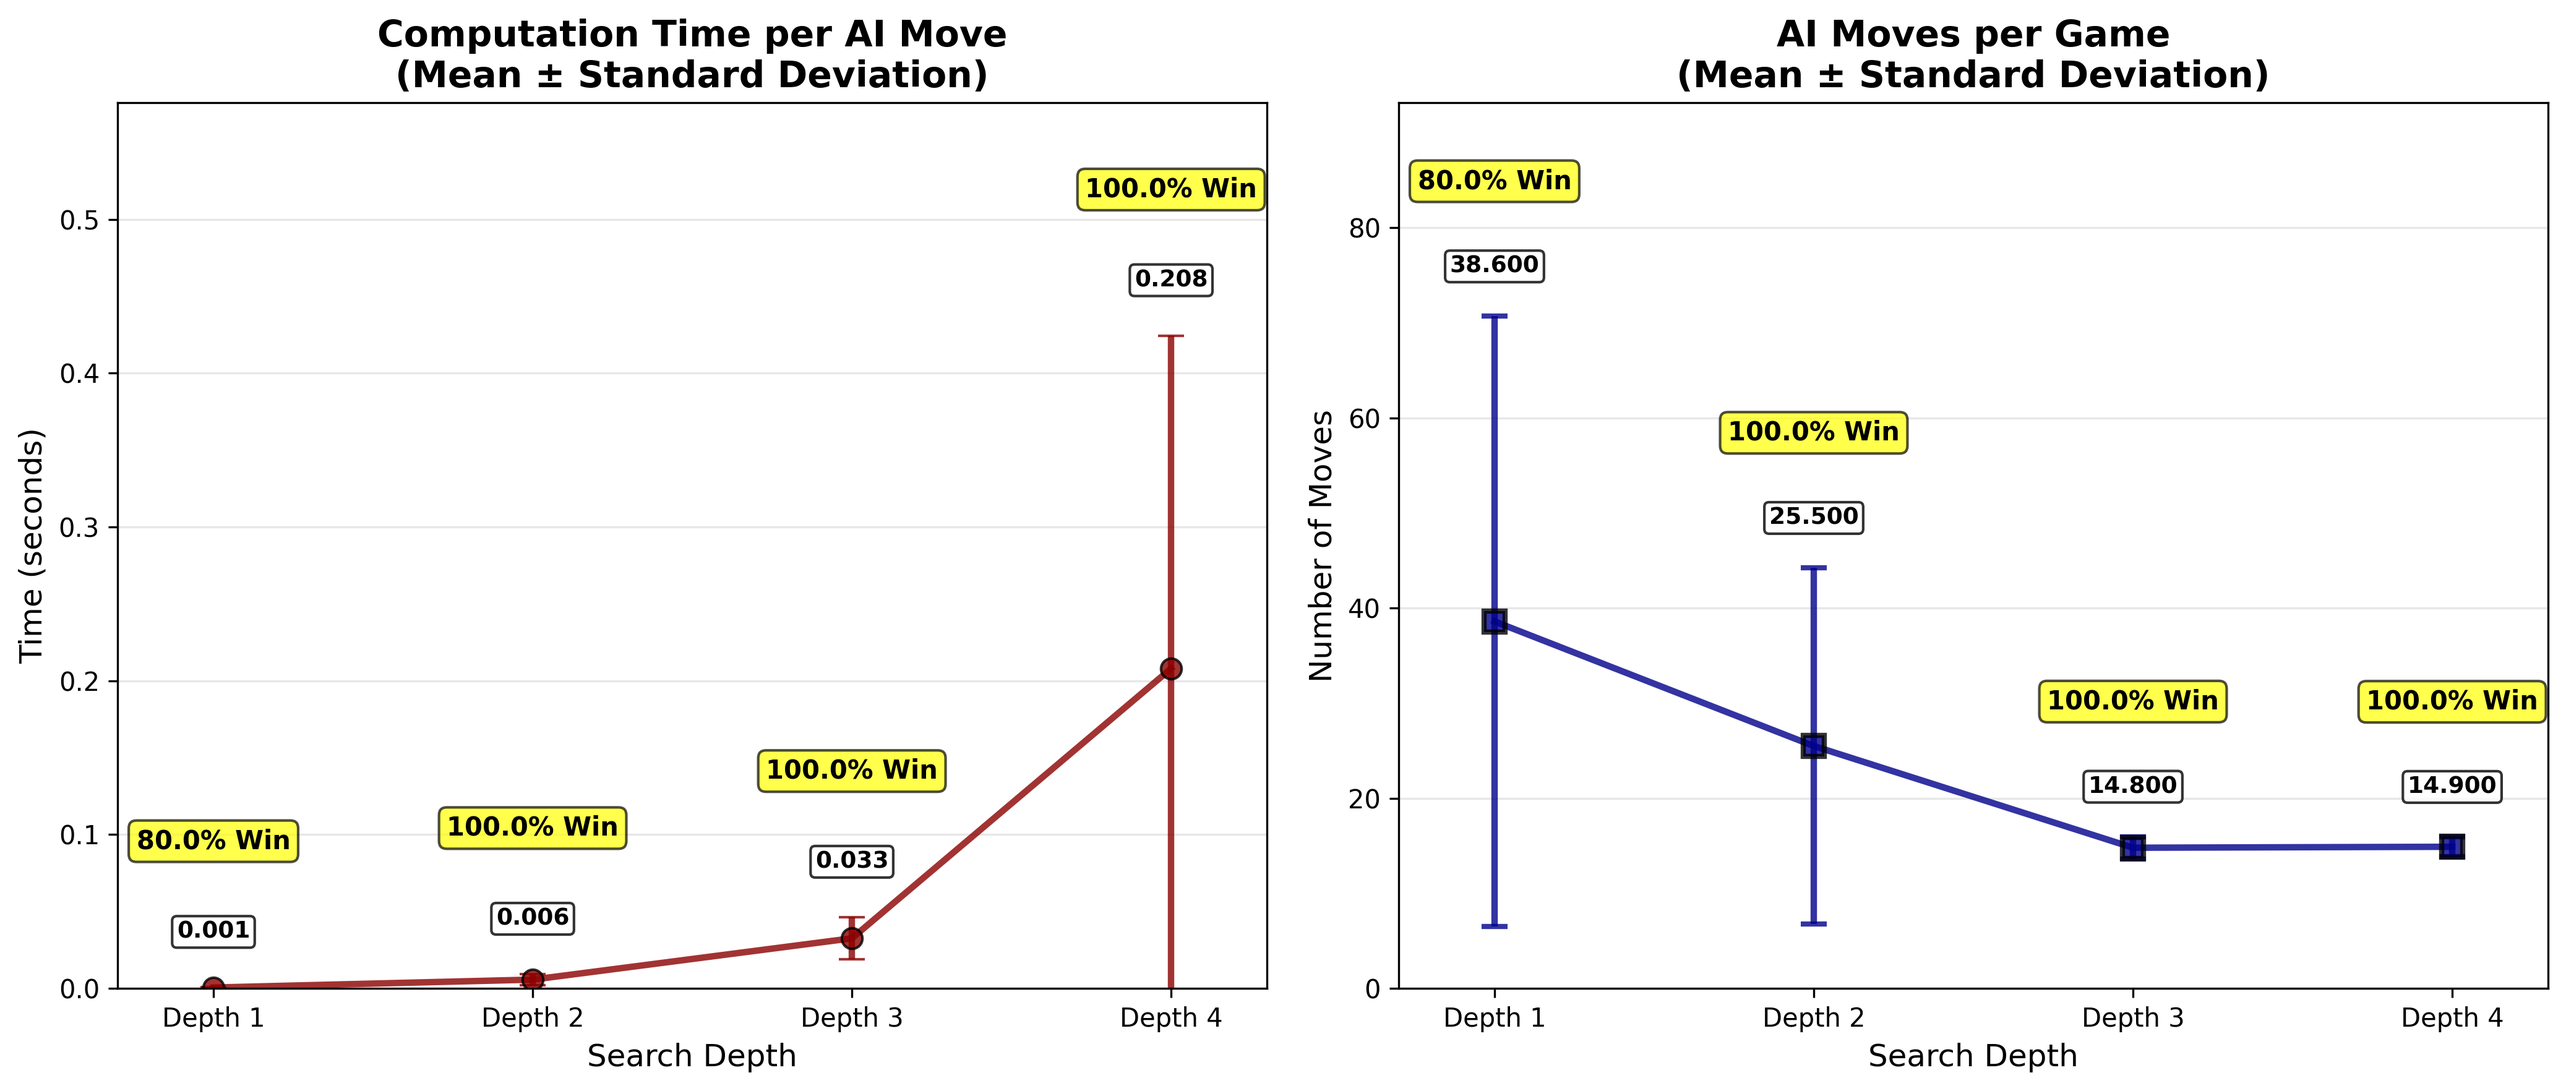
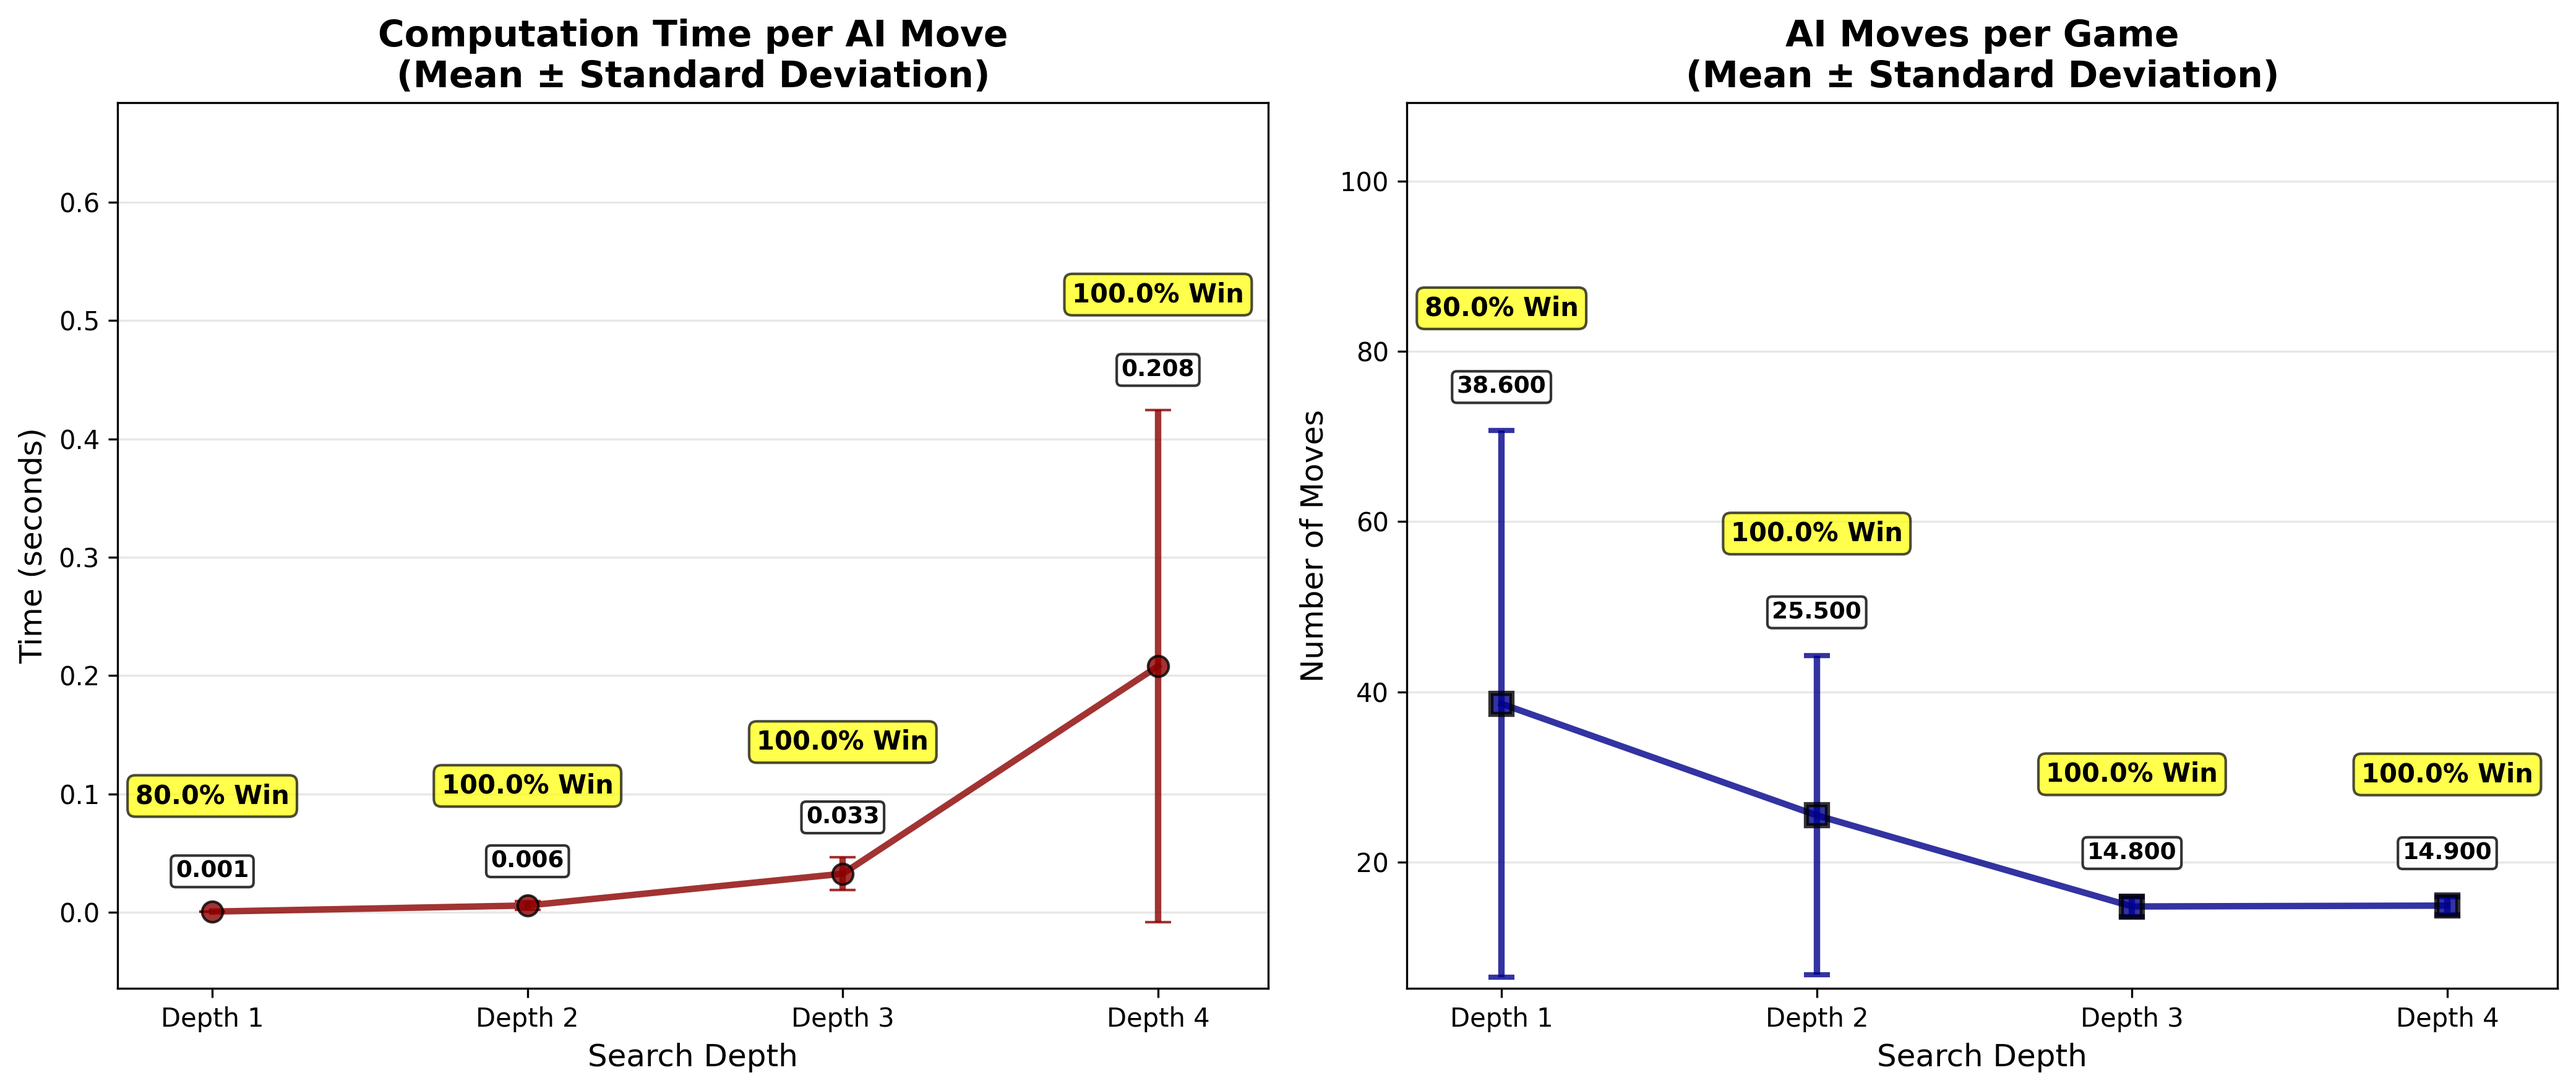
improved plotting

diff --git a/minimax_tests/limited_versions_time_comparison/plot_different_depth_against_random.py b/minimax_tests/limited_versions_time_comparison/plot_different_depth_against_random.py
@@ -62,12 +62,12 @@ def plot_benchmark(results, save_path=None):
                  bbox=dict(boxstyle="round,pad=0.2", facecolor='white', alpha=0.8))
 
     # ADJUST x-LIMITS
-    ax1.set_xlim(-0.3, len(depths) - 0.7)
-    ax2.set_xlim(-0.3, len(depths) - 0.7)
+    ax1.set_xlim(-0.3, len(depths) - 0.65)
+    ax2.set_xlim(-0.3, len(depths) - 0.65)
 
     # ADJUST y-LIMITS
-    ax1.set_ylim(0, max(avg_times) + max(std_times) + max(std_times) * 0.7)
-    ax2.set_ylim(0, max(avg_moves) + max(std_moves) + max(std_moves) * 0.7)
+    ax1.set_ylim(min(avg_times) - max(std_times) * 0.3, max(avg_times) + max(std_times) + max(std_times) * 1.2)
+    ax2.set_ylim(min(avg_moves) - max(std_moves) * 0.3, max(avg_moves) + max(std_moves) + max(std_moves) * 1.2)
 
     # ADD GRID
     ax1.grid(True, alpha=0.3, axis='y')
